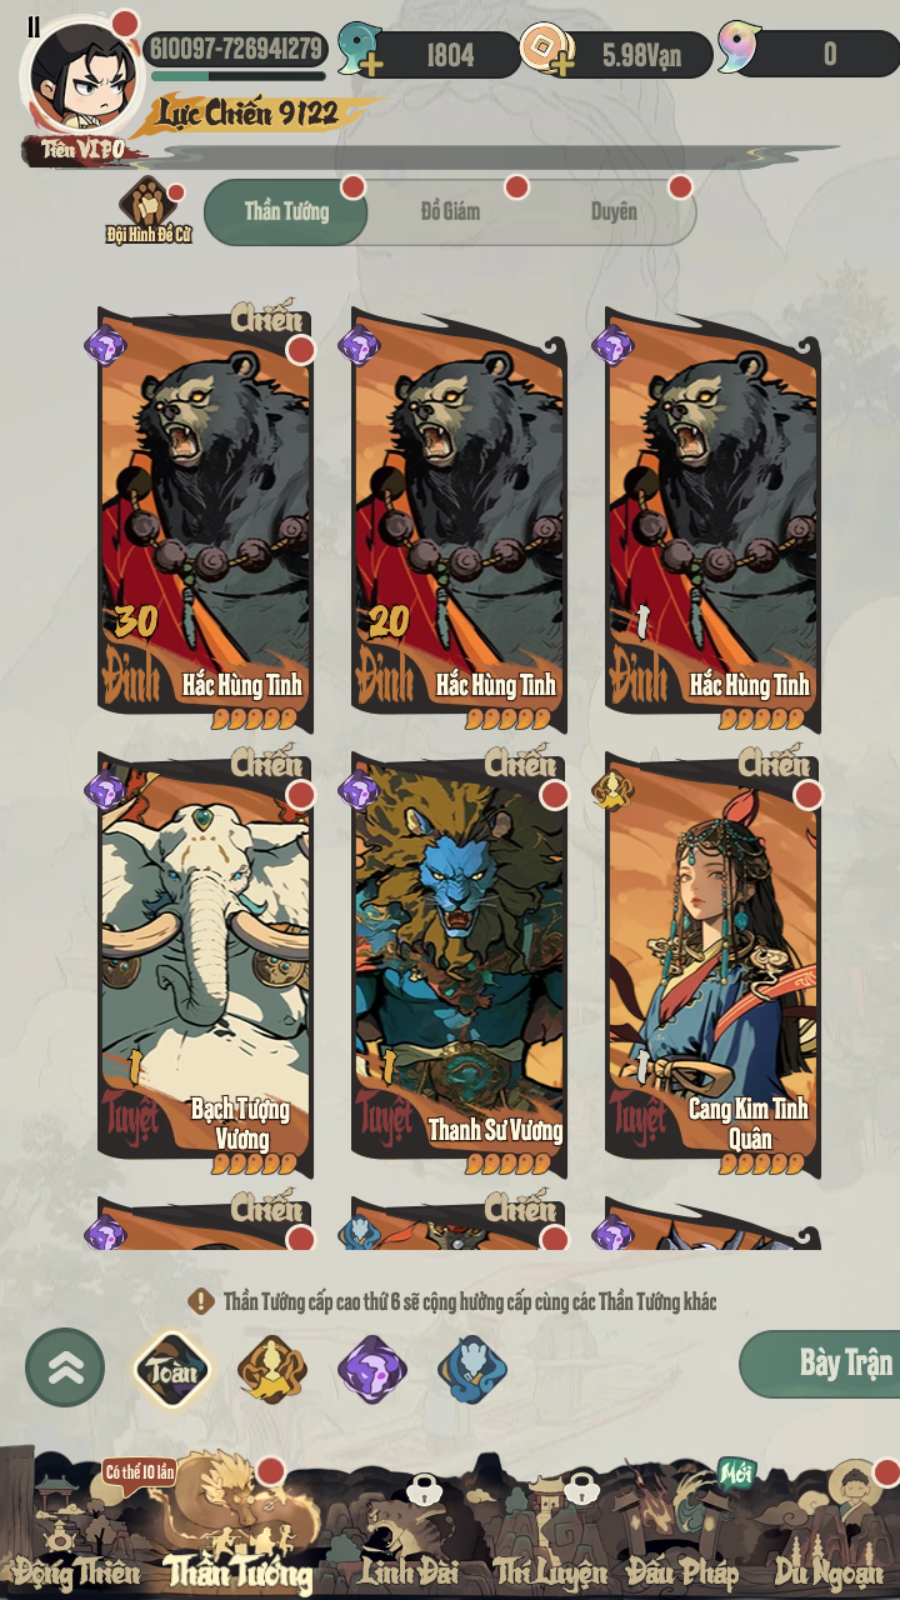
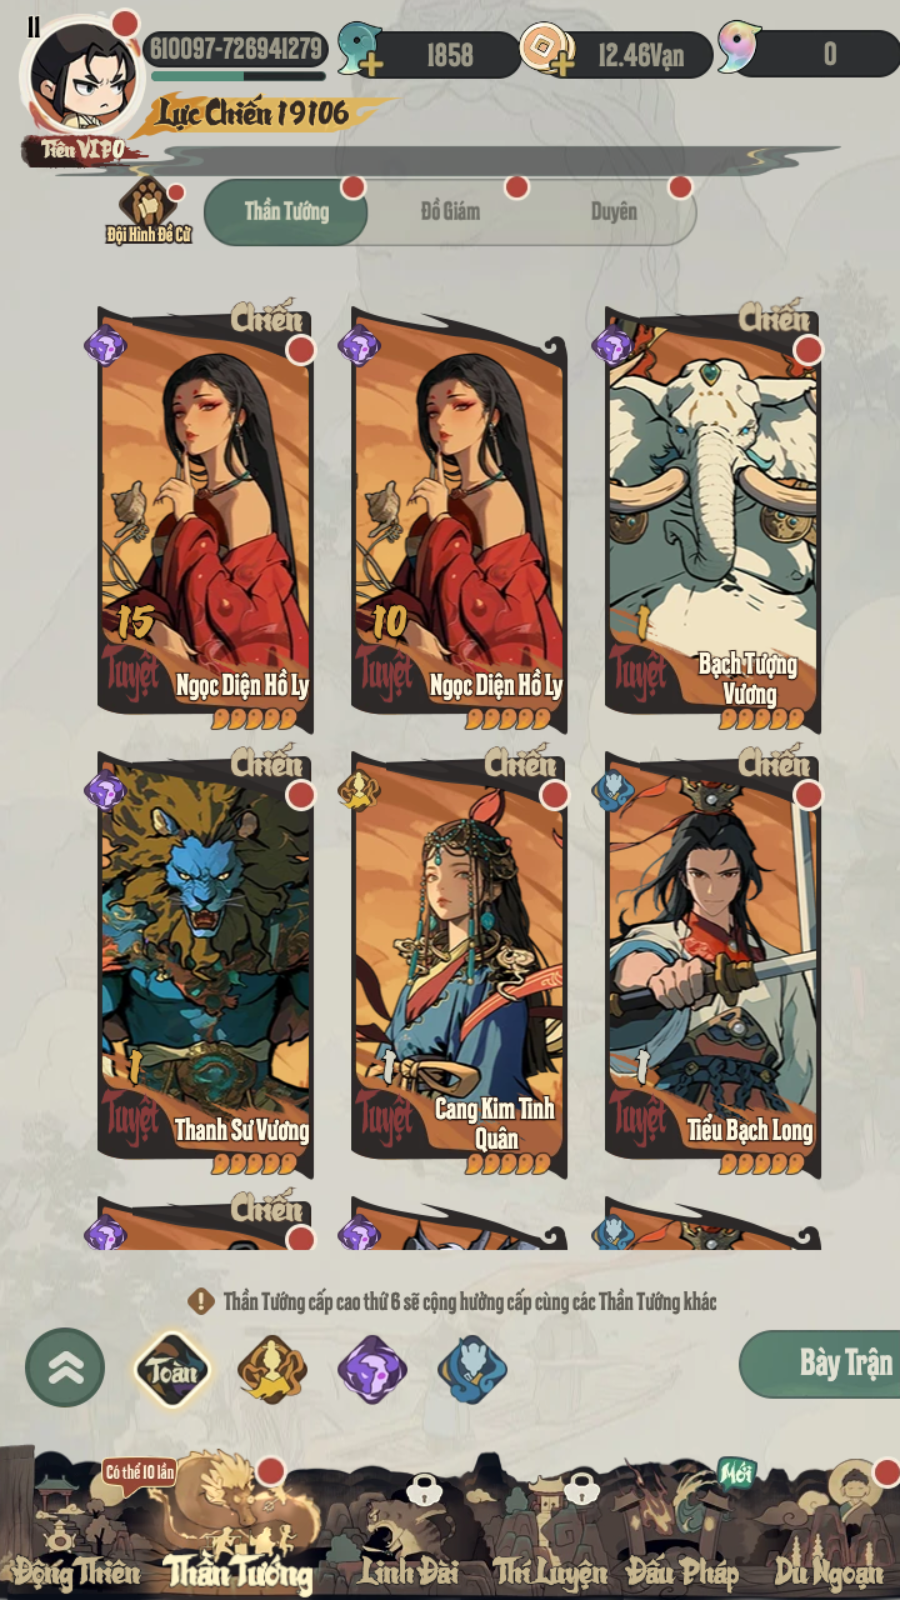
fix: sort jackpot heroes to Slot 1 & 2 with 3.5s wait and sync to Sales Bot

diff --git a/prepare_jackpot_account.js b/prepare_jackpot_account.js
@@ -228,6 +228,44 @@ async function prepareAndScreenshotJackpotAccount({
   let guideClearedToNull = false;
   let explicitGuideNull = false;
   const winningHeroIds=new Set();
+  if (targetHeroId) winningHeroIds.add(Number(targetHeroId));
+  const heroNameToIdMap = {
+    'dương tiễn': 1014,
+    'tôn ngộ không': 2014,
+    'ngộ không': 2014,
+    'na tra': 3014,
+    'đường tam tạng': 3010,
+    'đường tăng': 3010,
+    'cang kim tinh quân': 2015,
+    'cang kim': 2015,
+    'hồng hài nhi': 2012,
+    'trấn nguyên tử': 3012,
+    'trấn nguyên': 3012,
+    'ngọc diện hồ ly': 2013,
+    'ngọc diện': 2013,
+    'hằng nga': 1007,
+    'hoàng my': 3004,
+    'ngưu ma vương': 2006,
+    'ngưu ma': 2006,
+    'thiết phiến công chúa': 2007,
+    'thiết phiến': 2007,
+    'hàng long tôn giả': 3006,
+    'hàng long': 3006,
+    'trư bát giới': 2010,
+    'bát giới': 2010,
+    'lý tịnh': 3014,
+  };
+  if (Array.isArray(targetHeroNames)) {
+    for (const name of targetHeroNames) {
+      const nLow = String(name || '').toLowerCase();
+      for (const [kn, kid] of Object.entries(heroNameToIdMap)) {
+        if (nLow.includes(kn)) {
+          winningHeroIds.add(kid);
+          if (!targetHeroId) targetHeroId = kid;
+        }
+      }
+    }
+  }
   let heroBagTopIds=[],winnerPhotoOrdered=false;
   const matchTargetHero = (id, rawName, rawName2) => {
     const combinedRaw = String(rawName || '') + ' ' + String(rawName2 || '');
@@ -239,6 +277,14 @@ async function prepareAndScreenshotJackpotAccount({
     if (id === 2015 || norm.includes('cang kim') || norm.includes('cangkim') || combinedRaw.includes('亢金')) return 'Cang Kim Tinh Quân';
     if (id === 2012 || norm.includes('hong hai nhi') || norm.includes('hồng hài nhi') || combinedRaw.includes('红孩儿')) return 'Hồng Hài Nhi';
     if (id === 3012 || norm.includes('tran nguyen tu') || norm.includes('trấn nguyên tử') || combinedRaw.includes('镇元子')) return 'Trấn Nguyên Tử';
+    if (id === 2013 || norm.includes('ngoc dien') || norm.includes('ngọc diện') || combinedRaw.includes('玉面')) return 'Ngọc Diện Hồ Ly';
+    if (id === 1007 || norm.includes('hang nga') || norm.includes('hằng nga') || combinedRaw.includes('嫦娥')) return 'Hằng Nga';
+    if (id === 3004 || norm.includes('hoang my') || norm.includes('hoàng my') || combinedRaw.includes('黄眉')) return 'Hoàng My';
+    if (id === 2006 || norm.includes('nguu ma') || norm.includes('ngưu ma') || combinedRaw.includes('牛魔')) return 'Ngưu Ma Vương';
+    if (id === 2007 || norm.includes('thiet phien') || norm.includes('thiết phiến') || combinedRaw.includes('铁扇')) return 'Thiết Phiến Công Chúa';
+    if (id === 3006 || norm.includes('hang long') || norm.includes('hàng long') || combinedRaw.includes('降龙')) return 'Hàng Long Tôn Giả';
+    if (id === 2010 || norm.includes('bat gioi') || norm.includes('bát giới') || combinedRaw.includes('八戒')) return 'Trư Bát Giới';
+    if (norm.includes('ly tinh') || norm.includes('lý tịnh') || combinedRaw.includes('李靖') || combinedRaw.includes('托塔')) return 'Lý Tịnh';
     return null;
   };
   const campaignCheckpointPath=path.join(WORKSPACE,'state','tutorial-campaigns',`${sid}-${accId}.json`);
@@ -280,7 +326,7 @@ async function prepareAndScreenshotJackpotAccount({
           if (!guideClearedToNull) throw Error("TUTORIAL_PENDING");
           const n = baseSandbox.n;
           const allHeroes = Array.from(heroMap.values());
-          const validCoreIds = [1014, 2014, 2015, 3014, 3010, 2012, 3012];
+          const validCoreIds = [1014, 2014, 2015, 3014, 3010, 2012, 3012, 2013, 1007, 3004, 2006, 2007, 3006, 2010];
           const fiveStarHeroes = allHeroes.filter(
             (h) => h && (
               validCoreIds.includes(h.id) ||
@@ -1054,6 +1100,11 @@ if (require.main === module) {
     const serverName = getArg('--server-name') || '';
     const wsUrl = getArg('--ws-url') || '';
     const targetHeroId = Number(getArg('--hero') || 0);
+    const targetHeroName = getArg('--hero-name') || '';
+    const rawHeroNames = getArg('--hero-names') || '';
+    const targetHeroNames = targetHeroName
+      ? [targetHeroName]
+      : (rawHeroNames ? rawHeroNames.split(',').map((s) => s.trim()).filter(Boolean) : []);
 
     try {
       const res = await prepareAndScreenshotJackpotAccount({
@@ -1063,7 +1114,8 @@ if (require.main === module) {
         sid,
         serverName,
         wsUrl,
-        targetHeroId
+        targetHeroId,
+        targetHeroNames
       });
       console.log('RESULT_JSON_START:' + JSON.stringify(res) + ':RESULT_JSON_END');
       process.exit(0);

diff --git a/auto_sync_watcher.py b/auto_sync_watcher.py
@@ -10,10 +10,14 @@ from __future__ import annotations
 import argparse
 import base64
 import json
+import os
+import ssl
 import sys
 import time
 import urllib.request
 from pathlib import Path
+
+SSL_CTX = ssl._create_unverified_context()
 
 
 def main() -> None:
@@ -26,7 +30,7 @@ def main() -> None:
     parser = argparse.ArgumentParser(description="Tự động giám sát và bơm nick Hắc Tây Du 24/7")
     parser.add_argument(
         "--url",
-        default="http://100.94.81.101:8082/api/v1/inventory/hactaydu-webhook",
+        default="https://152-69-209-107.sslip.io/api/v1/inventory/hactaydu-webhook",
         help="URL Webhook của Bot",
     )
     parser.add_argument(
@@ -37,17 +41,21 @@ def main() -> None:
     parser.add_argument("--txt", default="DAN_NICK_TRUNG_TUONG.txt", help="File nick cần theo dõi")
     parser.add_argument("--photos", default="anh_nick_trung", help="Thư mục ảnh")
     parser.add_argument("--poll-interval", type=float, default=3.0, help="Số giây kiểm tra lại file")
-    parser.add_argument("--machine", default=None, help="Tên nguồn máy (vd: Máy 2, VPS 1, VPS 2)")
+    parser.add_argument("--machine", default=None, help="Tên nguồn máy (vd: D4, H0, VPS 1, VPS 2)")
     args = parser.parse_args()
 
-    machine_tag = args.machine
+    machine_tag = args.machine or os.environ.get("MACHINE_NAME")
     if not machine_tag:
-        try:
-            with open("config_local.json", "r", encoding="utf-8") as f:
-                cfg_local = json.load(f)
-                machine_tag = cfg_local.get("machine_id")
-        except Exception:
-            pass
+        for cfg_fn in ("config.json", "config_local.json"):
+            try:
+                with open(cfg_fn, "r", encoding="utf-8") as f:
+                    cfg_local = json.load(f)
+                    m = cfg_local.get("machine_id")
+                    if m:
+                        machine_tag = str(m).upper()
+                        break
+            except Exception:
+                pass
     if not machine_tag:
         import socket
         h = socket.gethostname().lower()
@@ -56,7 +64,7 @@ def main() -> None:
         elif "160" in h:
             machine_tag = "VPS 2"
         else:
-            machine_tag = "Máy 2"
+            machine_tag = "D4"
 
     txt_path = Path(args.txt)
     photos_dir = Path(args.photos)
@@ -251,7 +259,7 @@ def main() -> None:
                                 "Authorization": f"Bearer {args.secret}",
                             }
                             req = urllib.request.Request(target_url, data=data_bytes, headers=headers, method="POST")
-                            with urllib.request.urlopen(req, timeout=10) as resp:
+                            with urllib.request.urlopen(req, timeout=10, context=SSL_CTX) as resp:
                                 res_json = json.loads(resp.read().decode("utf-8"))
                                 status_code = resp.status
                                 print(f"   ✅ [BƠM THÀNH CÔNG MÁY {machine_tag.upper()}] Bot phản hồi: {res_json.get('status')} (HTTP {status_code})")

diff --git a/capture_winner.py b/capture_winner.py
@@ -36,7 +36,7 @@ def _compress_image(out_path):
     print(f"⚠ Không thể nén ảnh: {e_comp}", flush=True)
 
 
-async def capture_winner_screenshot(acc_name, fid, sid, port=8088, pwd="", srv_name="", ws_url="", hero_id=0):
+async def capture_winner_screenshot(acc_name, fid, sid, port=8088, pwd="", srv_name="", ws_url="", hero_id=0, hero_name=""):
   srv_num = sid - 610000 if sid > 610000 else sid
   rel_path = f"anh_nick_trung/{acc_name}_S{srv_num}.png"
   out_path = os.path.join(DIRECTORY, "anh_nick_trung", f"{acc_name}_S{srv_num}.png")
@@ -59,7 +59,8 @@ async def capture_winner_screenshot(acc_name, fid, sid, port=8088, pwd="", srv_n
             "--sid", str(sid),
             "--server-name", srv_name,
             "--ws-url", ws_url,
-            "--hero", str(hero_id)
+            "--hero", str(hero_id),
+            "--hero-name", hero_name
         ]
         print(f"🎮 [{acc_name}] Đang gọi prepare_jackpot_account.js (Node.js) chạy tân thủ Lv.8+, xếp túi tướng & chụp ảnh...", flush=True)
         cp = await asyncio.to_thread(subprocess.run, cmd, capture_output=True, text=True, timeout=180.0, cwd=DIRECTORY)
@@ -377,6 +378,7 @@ def main():
   parser.add_argument("--server-name", default="")
   parser.add_argument("--ws-url", default="")
   parser.add_argument("--hero", type=int, default=0)
+  parser.add_argument("--hero-name", default="")
   args = parser.parse_args()
 
   try:
@@ -390,6 +392,7 @@ def main():
             srv_name=args.server_name,
             ws_url=args.ws_url,
             hero_id=args.hero,
+            hero_name=args.hero_name,
         ),
         timeout=240.0,
     ))

diff --git a/chay_web_auto.py b/chay_web_auto.py
@@ -2935,6 +2935,7 @@ async def _capture_winner_screenshot_async(res):
         run_kwargs["creationflags"] = 0x00004000  # BELOW_NORMAL_PRIORITY_CLASS
 
       hero_id = 0
+      hero_name_val = ""
       hero_map_name_to_id = {
           "dương tiễn": 1014,
           "ngộ không": 2014,
@@ -2947,12 +2948,19 @@ async def _capture_winner_screenshot_async(res):
           "trấn nguyên": 3012,
           "hằng nga": 1007,
           "hoàng my": 3004,
+          "ngọc diện": 2013,
+          "ngưu ma": 2006,
+          "thiết phiến": 2007,
+          "hàng long": 3006,
+          "bát giới": 2010,
+          "trư bát giới": 2010,
       }
       for th in (res.get("targetHeroes") or []):
         th_low = th.lower()
         for kn, kid in hero_map_name_to_id.items():
           if kn in th_low:
             hero_id = kid
+            hero_name_val = th
             break
         if hero_id:
           break
@@ -2967,6 +2975,7 @@ async def _capture_winner_screenshot_async(res):
           "--server-name", str(res.get("serverName") or ""),
           "--ws-url", str(res.get("wsUrl") or ""),
           "--hero", str(hero_id),
+          "--hero-name", hero_name_val,
       ]
       cp = await asyncio.to_thread(
           subprocess.run,
